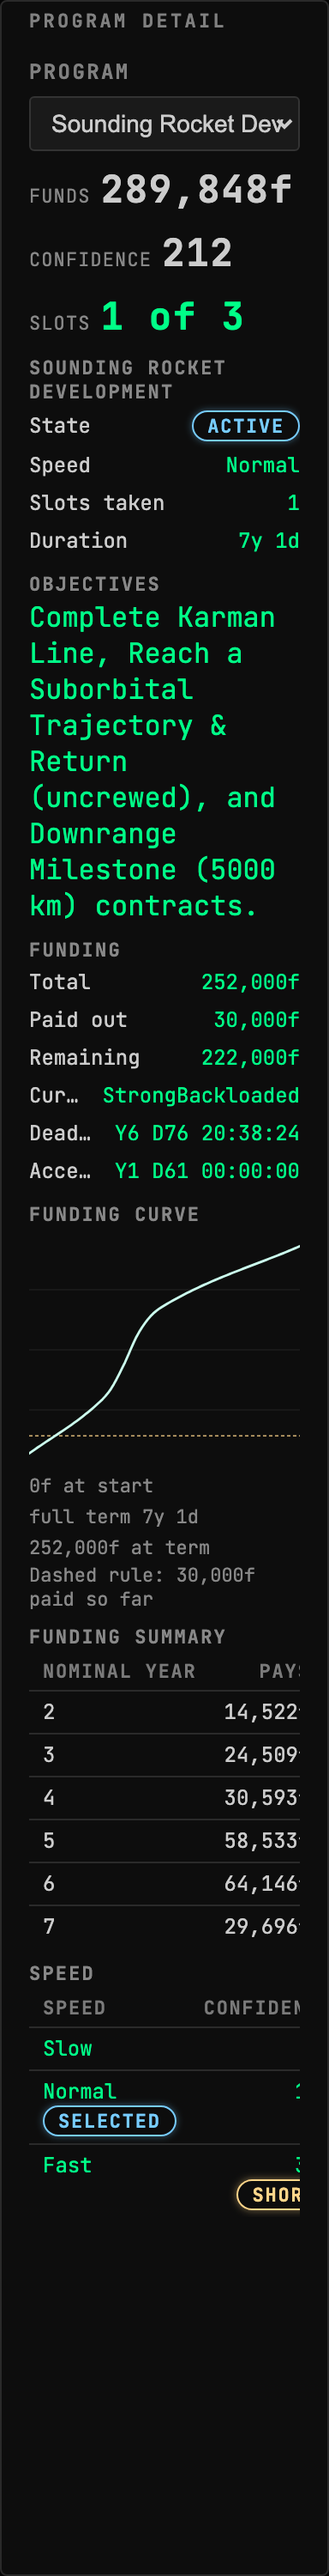
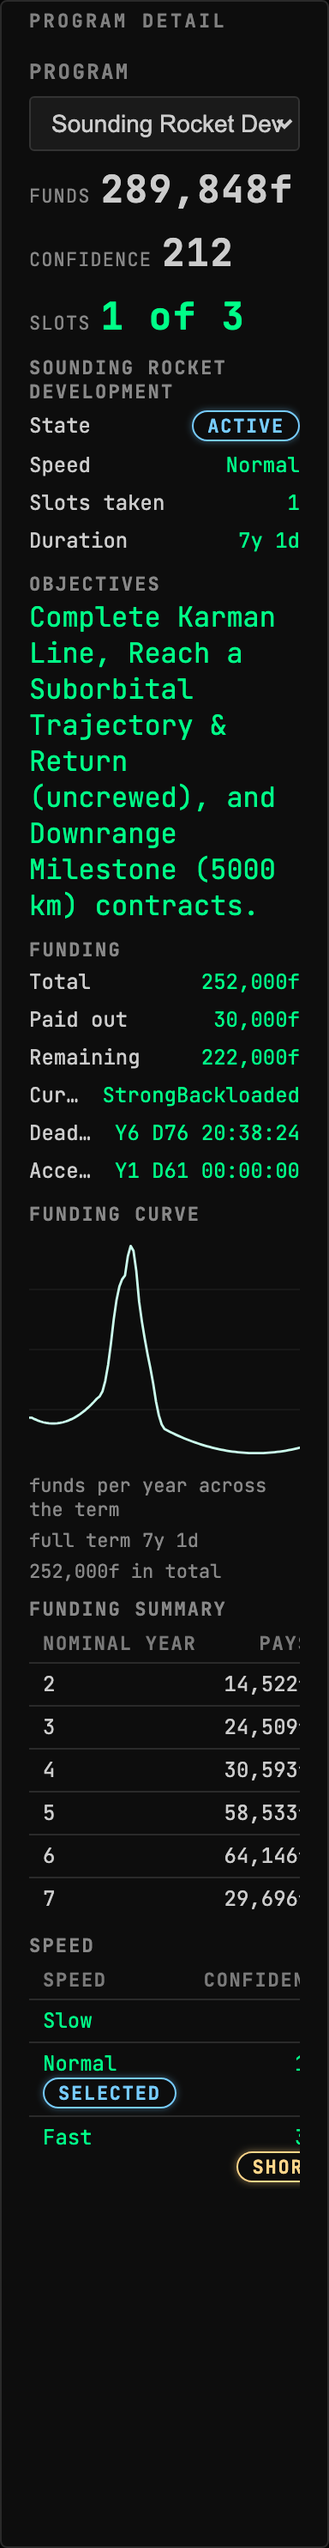
fix(rp1): plot the funding curve per year, as the game does
RP-1's own Program screen shows the change in funds per year. This
plotted the cumulative total and labelled it so.

The cumulative series only ever rises, so its shape carries one bit and
the front- or back-loading that separates one Program speed from another
is visible only as a change of slope. The rate shows it directly, which
is the whole reason the scenes are named offer-frontloaded and
running-backloaded: they existed to show a difference the chart could
barely draw.

The rate is the local slope of the sampled curve, computed where the
curve is built so it is tested there. It is null when RP-1 published no
duration and the axis is fractions of the term, because a rate PER YEAR
cannot be stated without one, and the chart falls back to cumulative
rather than relabelling a different quantity.

Two things follow the series rather than being left behind it: the
paid-so-far rule is a cumulative total and is drawn only on the
cumulative chart, since against a rate axis it compares funds with
funds-per-year, and the axis captions no longer claim the line starts at
zero and ends at the total.

The cumulative figures are unchanged and still in the table below.

diff --git a/mod/GonogoRp1Uplink/client/src/ProgramDetail/index.tsx b/mod/GonogoRp1Uplink/client/src/ProgramDetail/index.tsx
@@ -338,6 +338,18 @@ function FundingCurveChart({
   );
 
   const paidOut = magnitudeOf(program.fundsPaidOut);
+  /*
+   * RP-1's own Program screen plots the change in funds per YEAR, and this
+   * matches it. The cumulative series only ever rises, so its shape carries one
+   * bit and the front- or back-loading that separates one Program speed from
+   * another shows only as a change of slope; the rate shows it directly, and
+   * the cumulative figures stay in the table below.
+   *
+   * Falls back to cumulative when the sample could not state a rate, which is
+   * when RP-1 published no duration and the axis is fractions of the term.
+   */
+  const perYear =
+    sample !== null && sample.points.some((p) => p.fundsPerYear !== null);
 
   return (
     <Section>
@@ -352,20 +364,33 @@ function FundingCurveChart({
         <Stack gap="xs">
           <LineGraph
             height={140}
-            ariaLabel={`Cumulative funding over the duration of ${label(program)}`}
+            ariaLabel={
+              perYear
+                ? `Funding per year over the duration of ${label(program)}`
+                : `Cumulative funding over the duration of ${label(program)}`
+            }
             series={[
               {
                 id: "funding",
-                label: "Cumulative funding",
+                label: perYear ? "Funding per year" : "Cumulative funding",
                 color: "var(--color-status-go-fg)",
-                points: sample.points.map((p) => ({ x: p.x, y: p.funds })),
+                points: sample.points.map((p) => ({
+                  x: p.x,
+                  y: perYear ? (p.fundsPerYear ?? 0) : p.funds,
+                })),
               },
             ]}
             // The deadline, as a rule across the chart. Everything right of
             // where the curve crosses it is money RP-1 pays for running over,
             // which is the single thing an operator reads this chart for.
+            /*
+             * The paid-so-far rule is a CUMULATIVE total, so it belongs only on
+             * the cumulative chart: drawn against a rate axis it would be a
+             * funds figure compared with a funds-per-year one, which is a
+             * category error that happens to render.
+             */
             thresholds={
-              paidOut === null
+              perYear || paidOut === null
                 ? []
                 : [{ id: "paid", label: "Paid out", value: paidOut }]
             }
@@ -375,8 +400,17 @@ function FundingCurveChart({
               and its own screen-reader wording, and a <text> element in a
               non-uniformly scaled SVG would be stretched with it. */}
           <Cluster gap="sm" wrap>
+            {/* The anchors describe the SERIES, so they change with it: a rate
+                chart does not start at zero funds and does not end at the
+                total, which is what the cumulative one is bounded by. */}
             <Text size="xs" tone="muted">
-              <Unit value={value("funds", 0)} /> at start
+              {perYear ? (
+                <>funds per year across the term</>
+              ) : (
+                <>
+                  <Unit value={value("funds", 0)} /> at start
+                </>
+              )}
             </Text>
             <Text size="xs" tone="muted">
               {sample.axis === "years" ? (
@@ -388,10 +422,11 @@ function FundingCurveChart({
               )}
             </Text>
             <Text size="xs" tone="muted">
-              <Unit value={program.totalFunding} /> at term
+              <Unit value={program.totalFunding} />{" "}
+              {perYear ? <>in total</> : <>at term</>}
             </Text>
           </Cluster>
-          {paidOut !== null && (
+          {!perYear && paidOut !== null && (
             <Text size="xs" tone="muted">
               Dashed rule: <Unit value={program.fundsPaidOut} /> paid so far
             </Text>

diff --git a/mod/GonogoRp1Uplink/client/src/ProgramDetail/fundingCurve.ts b/mod/GonogoRp1Uplink/client/src/ProgramDetail/fundingCurve.ts
@@ -31,7 +31,23 @@ export interface PlainCurveKey {
  */
 export interface FundingCurvePoint {
   x: number;
+  /** Cumulative funds paid by this point, which is what the curve integrates to. */
   funds: number;
+  /**
+   * Funds per YEAR at this point, the local slope of the cumulative curve.
+   *
+   * <p>This is what RP-1's own Program screen plots, and it is the series worth
+   * looking at: a cumulative curve only ever rises, so its shape carries one
+   * bit and the front- or back-loading that distinguishes one Program speed
+   * from another is visible only as a change of slope. The rate shows it
+   * directly.</p>
+   *
+   * <p>`null` when the sample's axis is fractions of the term rather than
+   * years, because RP-1 published no duration and a rate PER YEAR cannot be
+   * stated without one. A rate per fraction-of-term would be a different
+   * quantity wearing the same axis.</p>
+   */
+  fundsPerYear: number | null;
 }
 
 /** What the x axis of a sample turned out to be, which the caller has to label. */
@@ -172,9 +188,31 @@ export function sampleFundingCurve({
     const frac = firstFrac + ((lastFrac - firstFrac) * i) / samples;
     const paid = evaluateFundingCurve(keys, frac);
     if (paid === null) continue;
-    points.push({ x: frac * scale, funds: paid * totalFunds });
+    points.push({
+      x: frac * scale,
+      funds: paid * totalFunds,
+      fundsPerYear: null,
+    });
   }
   if (points.length < 2) return null;
+
+  /*
+   * The rate, as the local slope of what we just sampled. Only when the axis is
+   * YEARS: with a fraction axis the divisor is a fraction of the term and the
+   * result is not funds per year.
+   *
+   * The first point takes the second's rate rather than zero. A leading zero
+   * would draw a Program as paying nothing in its first instant, which is an
+   * artefact of having no earlier sample to difference against.
+   */
+  if (axis === "years") {
+    for (let i = 1; i < points.length; i++) {
+      const dx = points[i].x - points[i - 1].x;
+      points[i].fundsPerYear =
+        dx > 0 ? (points[i].funds - points[i - 1].funds) / dx : null;
+    }
+    points[0].fundsPerYear = points[1].fundsPerYear;
+  }
 
   return { points, axis, nominalEnd: scale, end: lastFrac * scale };
 }

diff --git a/mod/GonogoRp1Uplink/client/src/ProgramDetail/index.test.tsx b/mod/GonogoRp1Uplink/client/src/ProgramDetail/index.test.tsx
@@ -207,12 +207,18 @@ describe("ProgramDetail", () => {
     expect(table).toHaveTextContent("SHORT");
   });
 
+  /*
+   * PER YEAR, matching RP-1's own Program screen. The cumulative series only
+   * ever rises, so front- or back-loading shows in it as a change of slope and
+   * nothing else; the rate shows it directly. The cumulative figures are still
+   * in the table below the chart.
+   */
   it("draws the funding curve as a labelled graphic", async () => {
     const { fixture, view } = mount();
     await feed(fixture);
 
     const chart = await screen.findByRole("img", {
-      name: /Cumulative funding over the duration of X-Plane Research/,
+      name: /Funding per year over the duration of X-Plane Research/,
     });
     // The stroke has to be a real polyline over real points. A chart that
     // rendered its frame and no line looks identical to one with no data.

diff --git a/mod/GonogoRp1Uplink/client/src/ProgramDetail/fundingCurve.test.ts b/mod/GonogoRp1Uplink/client/src/ProgramDetail/fundingCurve.test.ts
@@ -158,7 +158,14 @@ describe("sampling a funding curve for a chart", () => {
     // The curve runs to frac 2, so the chart runs to eight years: RP-1 keeps
     // paying past the deadline and a chart stopping at four would hide it.
     expect(sample?.end).toBeCloseTo(8, 9);
-    expect(sample?.points[0]).toEqual({ x: 0, funds: 0 });
+    /* A flat curve pays 400,000 over four years, so the RATE is a constant
+       100,000 a year, and the first point borrows the second's rather than
+       reading zero for want of an earlier sample to difference against. */
+    expect(sample?.points[0]).toEqual({
+      x: 0,
+      funds: 0,
+      fundsPerYear: 100_000,
+    });
     const atFourYears = sample?.points.find((p) => Math.abs(p.x - 4) < 1e-9);
     expect(atFourYears?.funds).toBeCloseTo(400_000, 6);
   });
